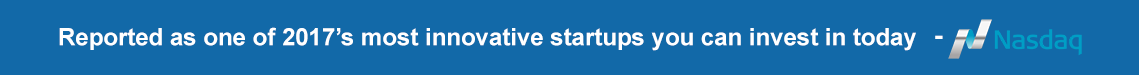
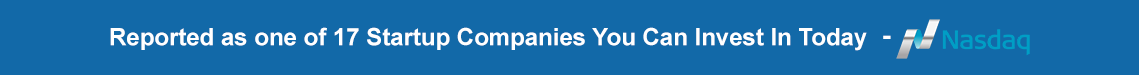
SEC compliance revision 2

Changed region(s): [[0.0307, 0.24, 0.9526, 0.8]]

diff --git a/index.html b/index.html
@@ -602,7 +602,7 @@
 
         <div style="margin: 0 auto; text-align:center;">
             <img src="/img/nasdaq.png">
-            <h4 style="margin-bottom: -2px !important; line-height: 26px;">Reported as one of NASDAQ's 2017 Most Innovative Startups You Can Invest In Today</h4>
+            <h4 style="margin-bottom: -2px !important; line-height: 26px;">Reported as one of 17 Startup Companies You Can Invest In Today</h4>
             <a style="padding-left: 7px; font-size: 12px; color: #cacaca;" href="http://www.nasdaq.com/article/17-startup-companies-you-can-invest-in-today-cm747401" target="_blank">Read More</a>
         </div>
 
